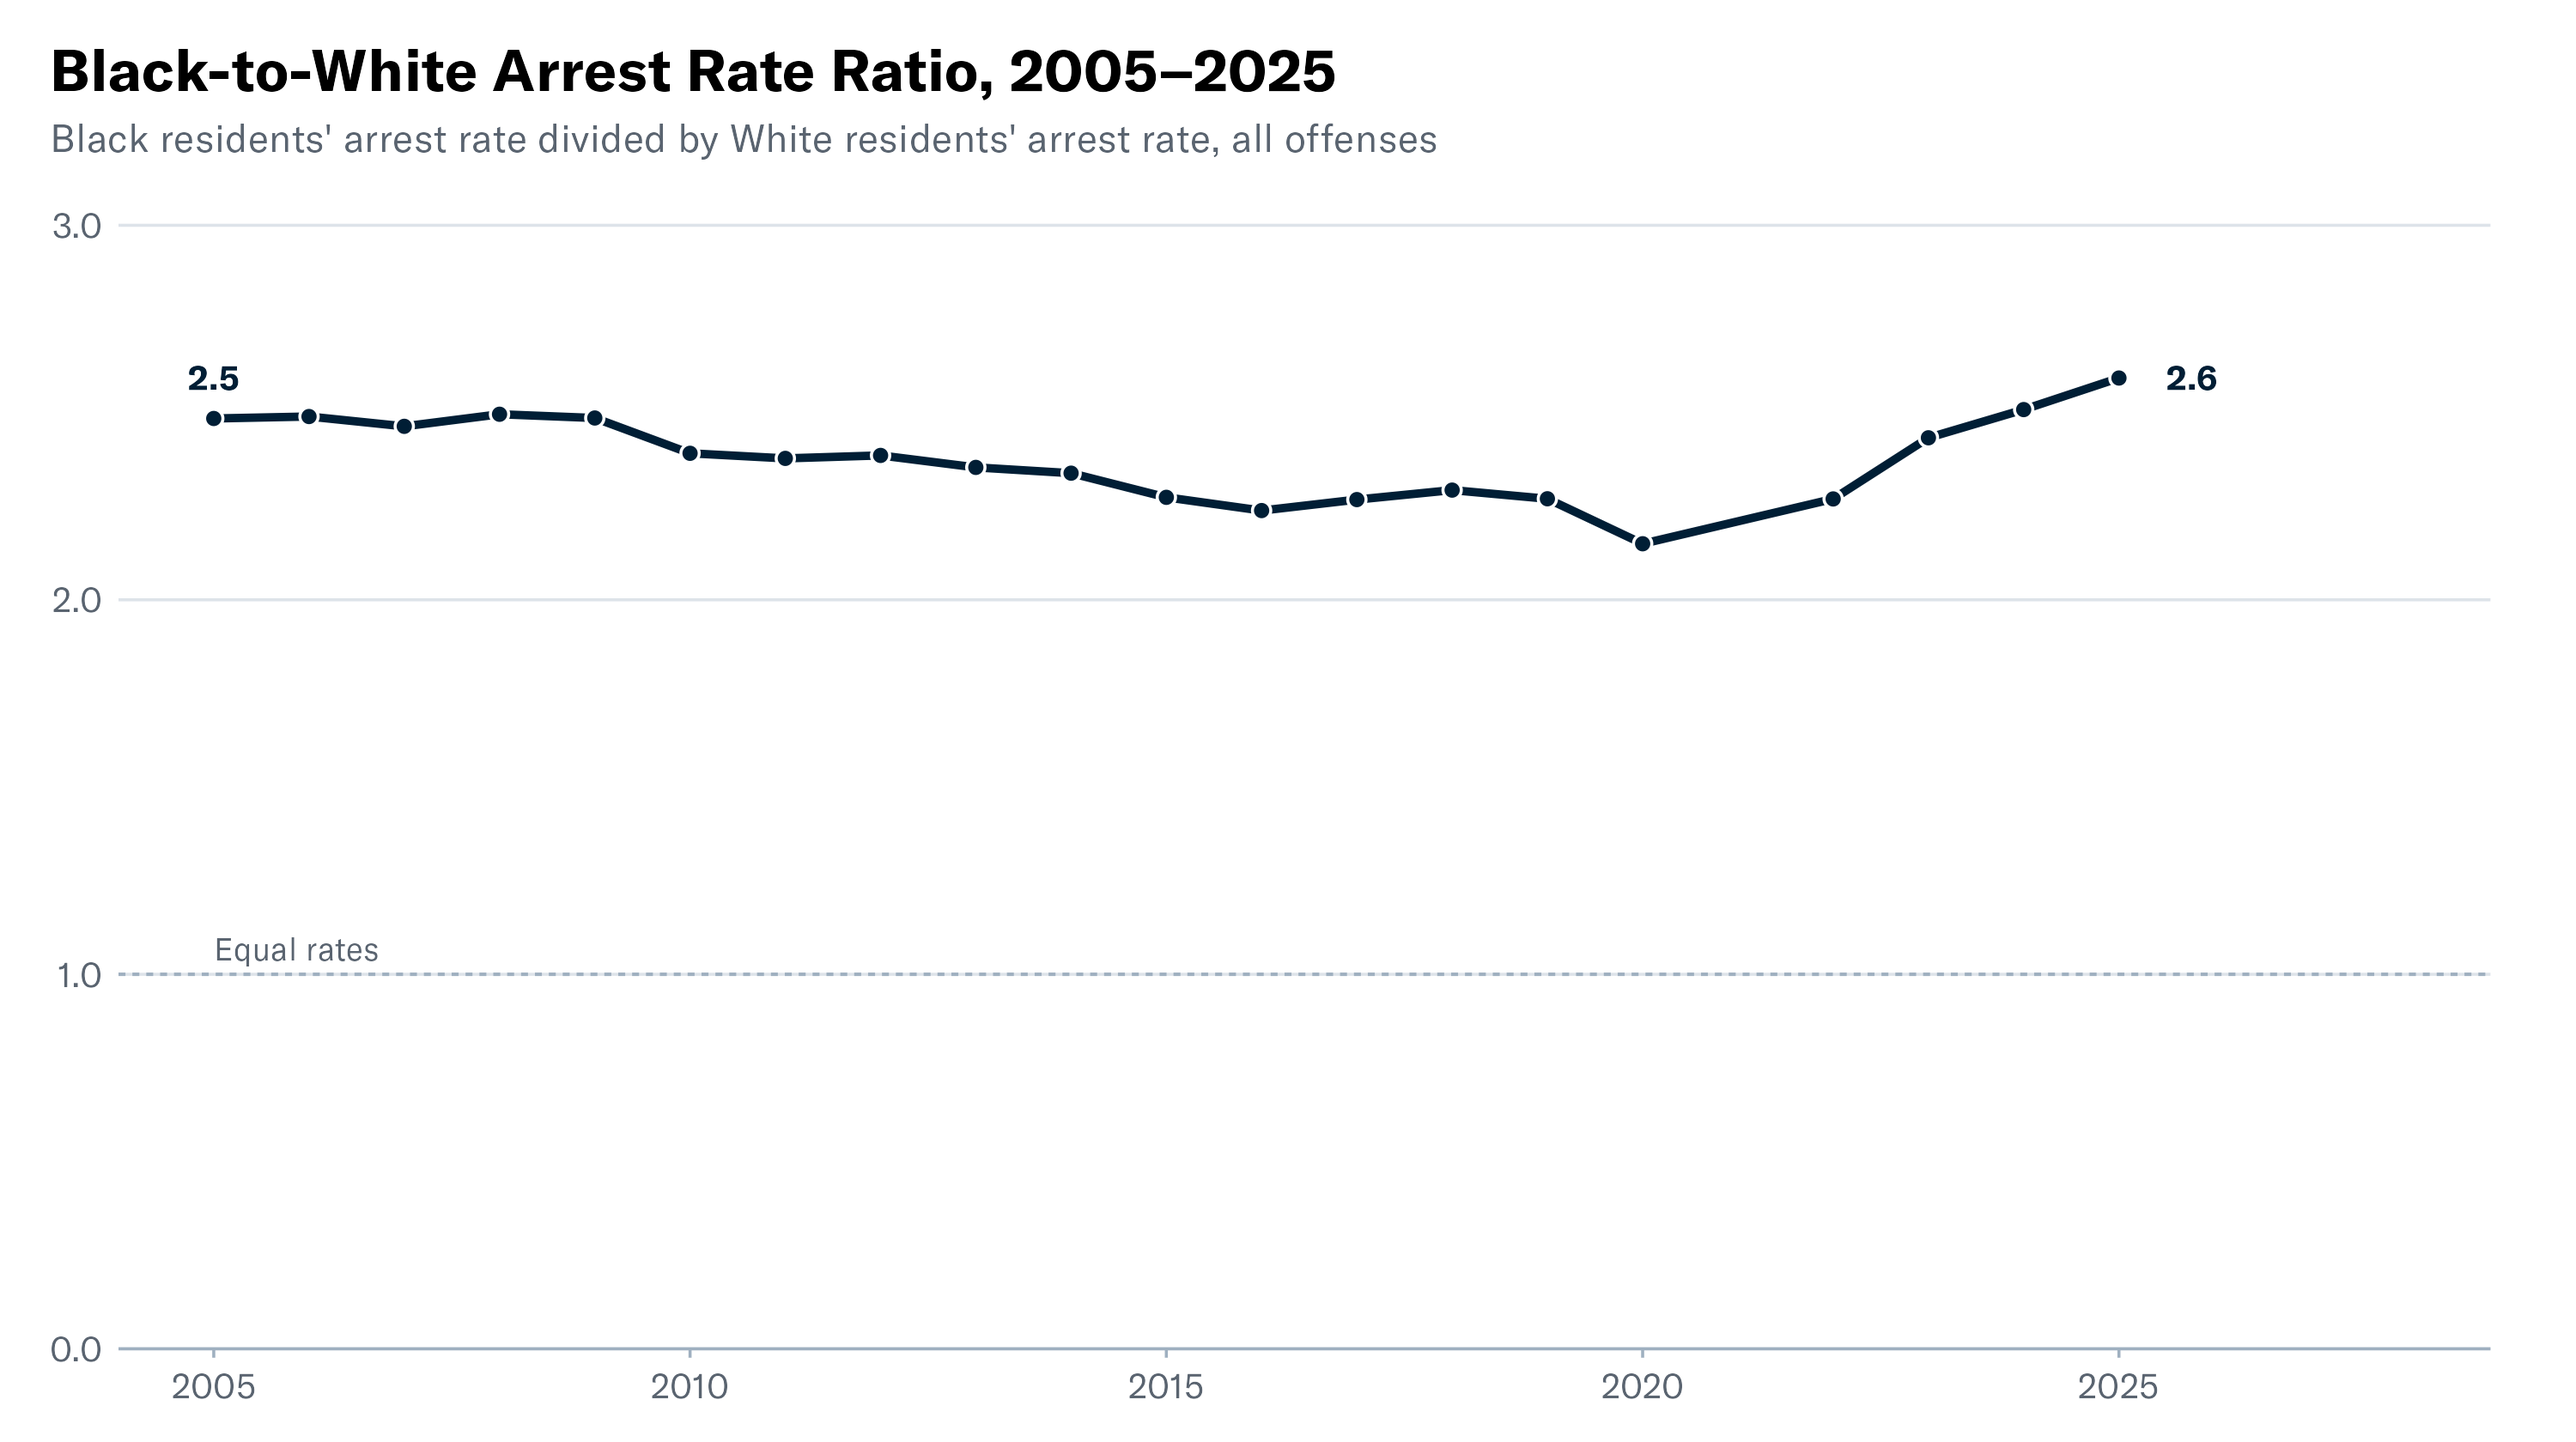
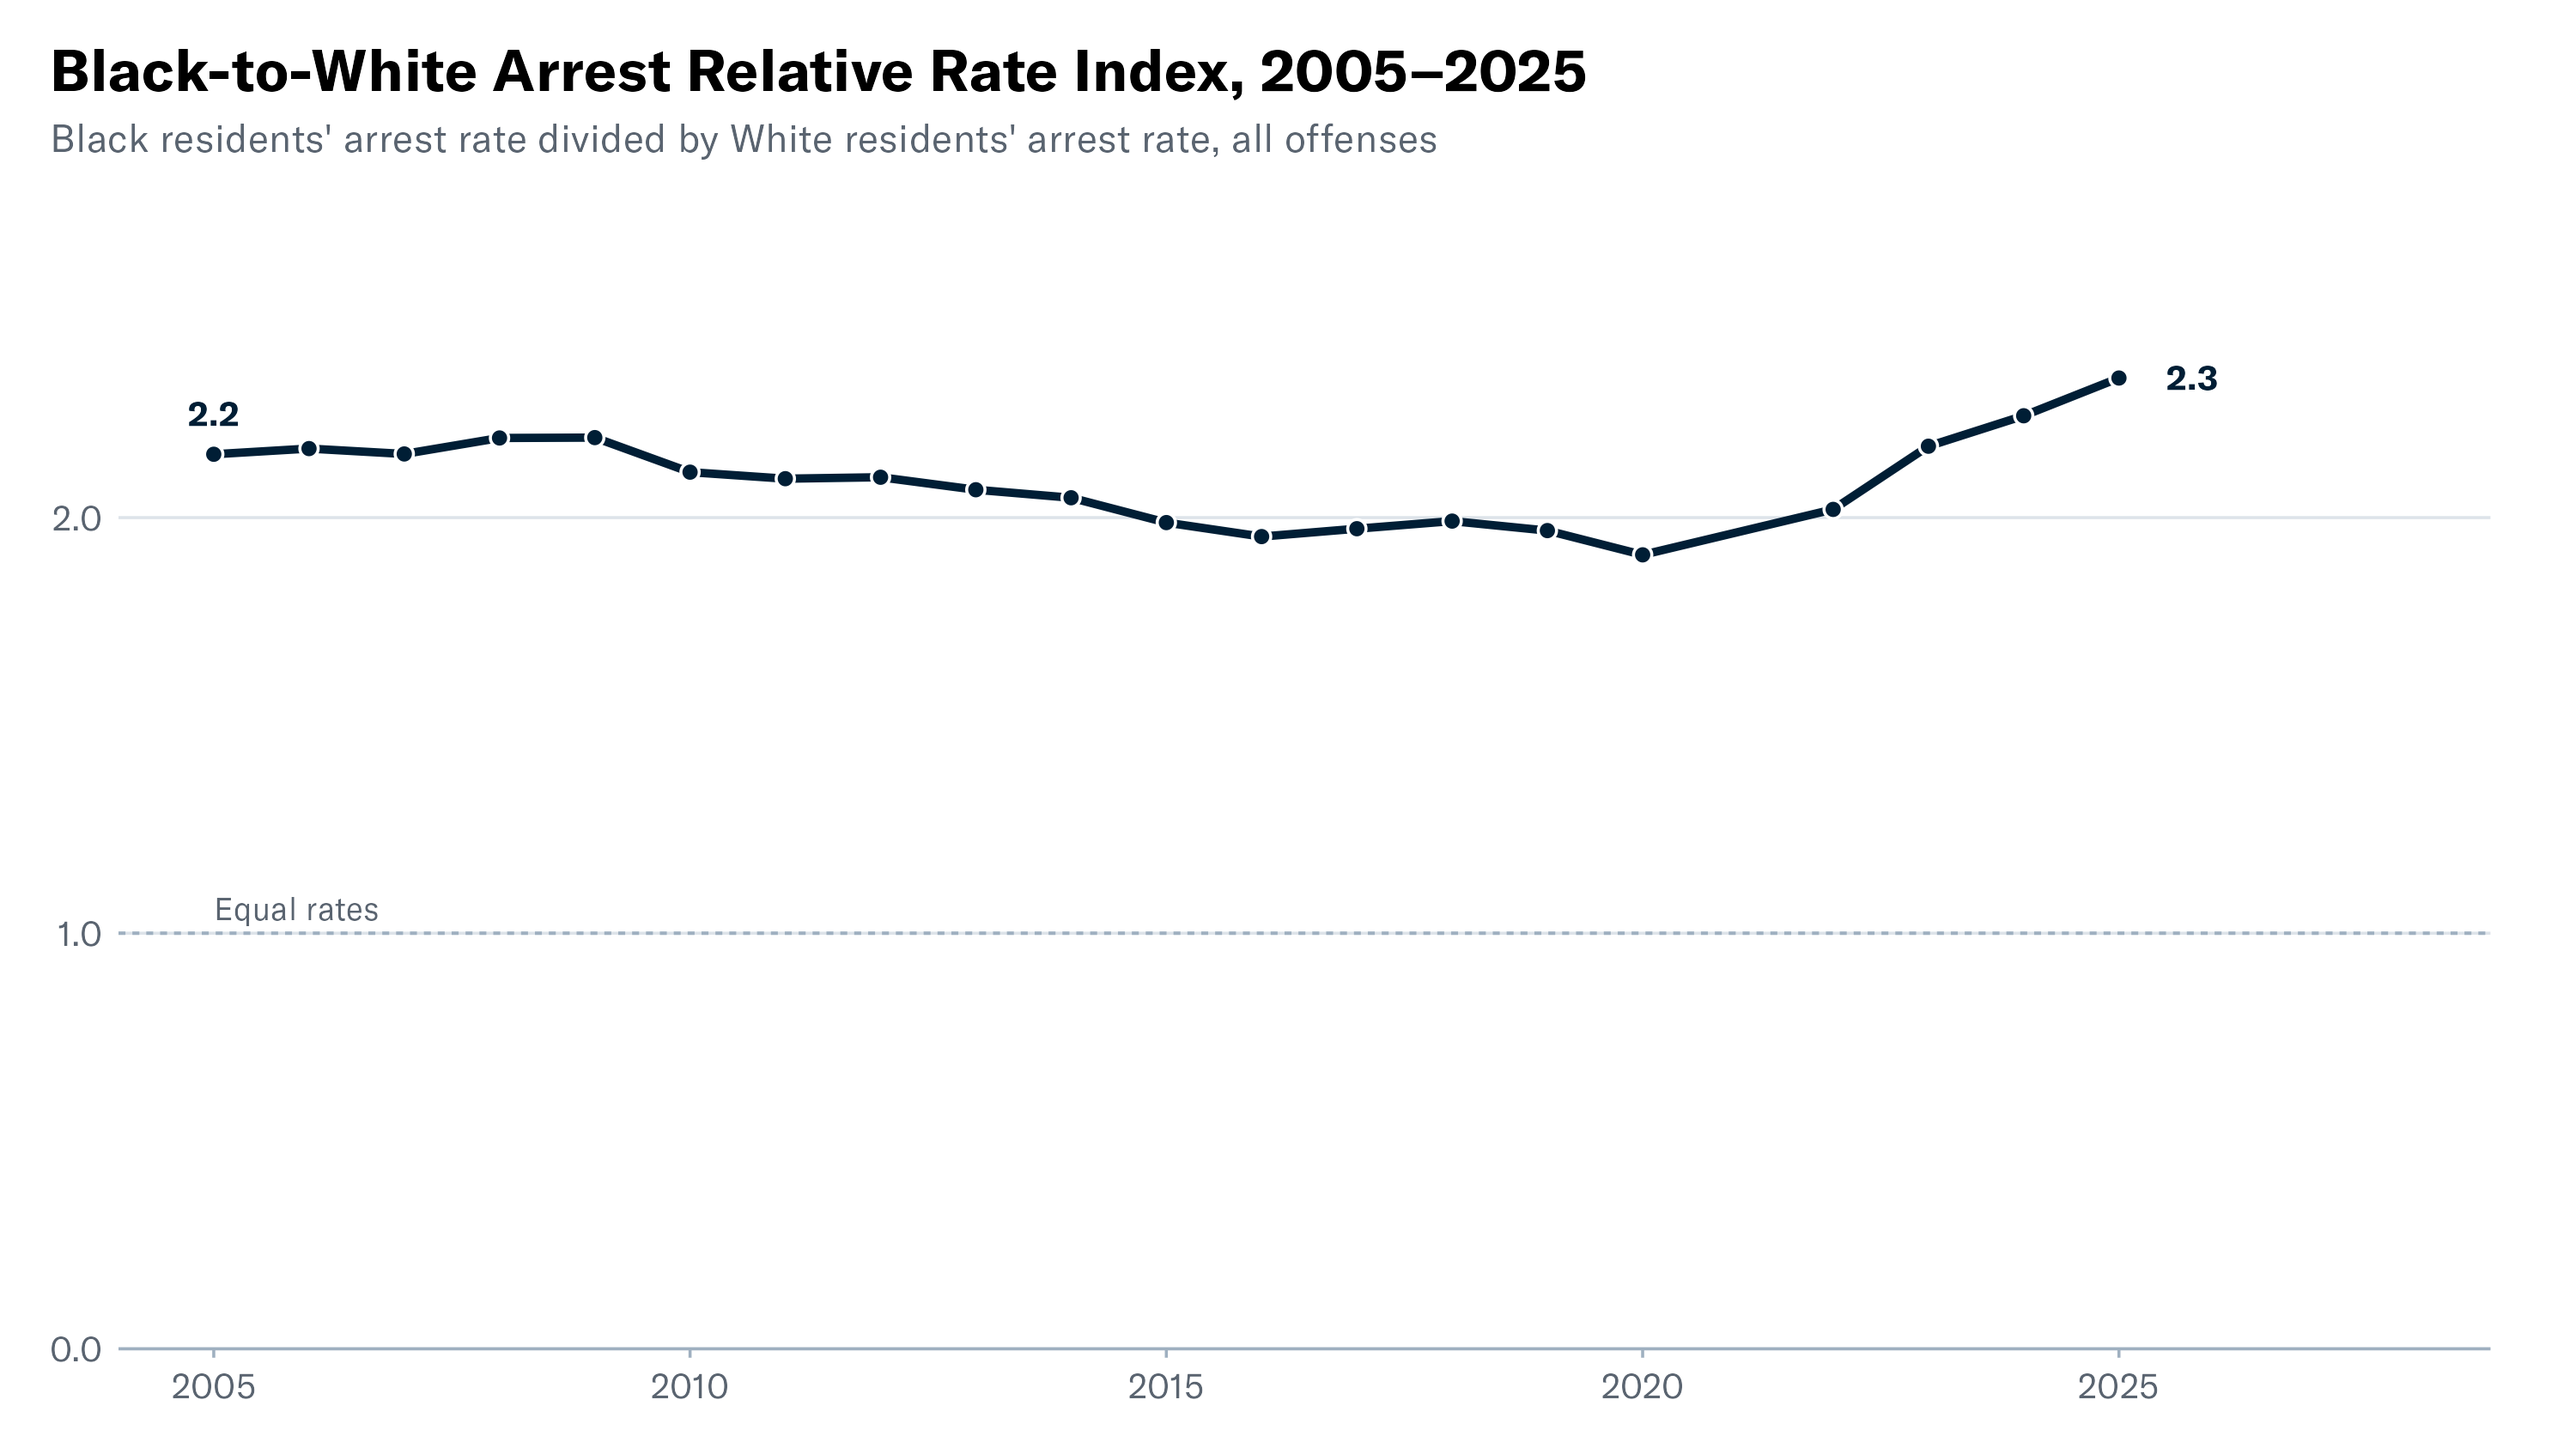
updating marshall presentation viz formatting

diff --git a/README.md b/README.md
@@ -97,8 +97,9 @@ quarto::quarto_render("analysis/marshall_requests/marshall-ncsl-main-presentatio
 ```
 
 - **Outputs:** each chart is saved as two PNGs with transparent backgrounds in `analysis/marshall_requests/png/`, one with its caption and one without (`-no-caption.png`).
-- **Arrest data:** arrests come from the FBI Crime Data Explorer API and are cached in `data/cde-arrests-national.csv`. Renders read the cache. Delete it, or call `read_cde_arrests(..., refresh = TRUE)`, to pull again; that needs `DATA_GOV_API_KEY`.
-- **Data outside the data library:** recidivism comes from the 50 States, 1 Goal file in the SharePoint `z_ARCHIVE` folder. The slide 9 alternatives also read `data/recidivism-national-studies.csv`, three-year return-to-prison rates typed in from published BJS and Pew reports, with a link to each. Slide 22 reads `data/missouri-jr.csv`, fiscal 2016–2025 figures typed in from the Missouri Department of Corrections' FY2025 offender profile. Slide 13d reads `data/health-care-costs.csv`, fiscal 2010–2015 figures typed in from appendix C of Pew and Vera's *Prison Health Care: Costs and Quality* (2017).
+- **Arrest data:** slide 4 uses the FBI's national arrest estimates (table 29), typed in from each year's release in `raw/fbi/cius/fbi_drug_arrests_2005_2025.csv` in the data library. The other arrest slides use arrests from the FBI Crime Data Explorer API and are cached in `data/cde-arrests-national.csv`. Renders read the cache. Delete it, or call `read_cde_arrests(..., refresh = TRUE)`, to pull again; that needs `DATA_GOV_API_KEY`.
+- **ACS data:** slide 5's relative rate index uses non-Hispanic Black and White residents from ACS 5-year table B03002, cached in `data/acs-race-national.csv`. Pulling it needs `CENSUS_API_KEY`.
+- **Data outside the data library:** recidivism comes from the 50 States, 1 Goal file in the SharePoint `z_ARCHIVE` folder. Slide 6b reads probation and parole violation admissions from the More Community, Less Confinement app data in the same folder. The slide 9 alternatives also read `data/recidivism-national-studies.csv`, three-year return-to-prison rates typed in from published BJS and Pew reports, with a link to each. Slide 22 reads `data/missouri-jr.csv`, fiscal 2016–2025 figures typed in from the Missouri Department of Corrections' FY2025 offender profile. Slide 13d reads `data/health-care-costs.csv`, fiscal 2010–2015 figures typed in from appendix C of Pew and Vera's *Prison Health Care: Costs and Quality* (2017).
 - **Missing sources:** slides whose sources aren't in the library read CSVs dropped into `data/`. The QMD lists each file and its columns, and skips a chart until its file is there.
 
 ### Layout
